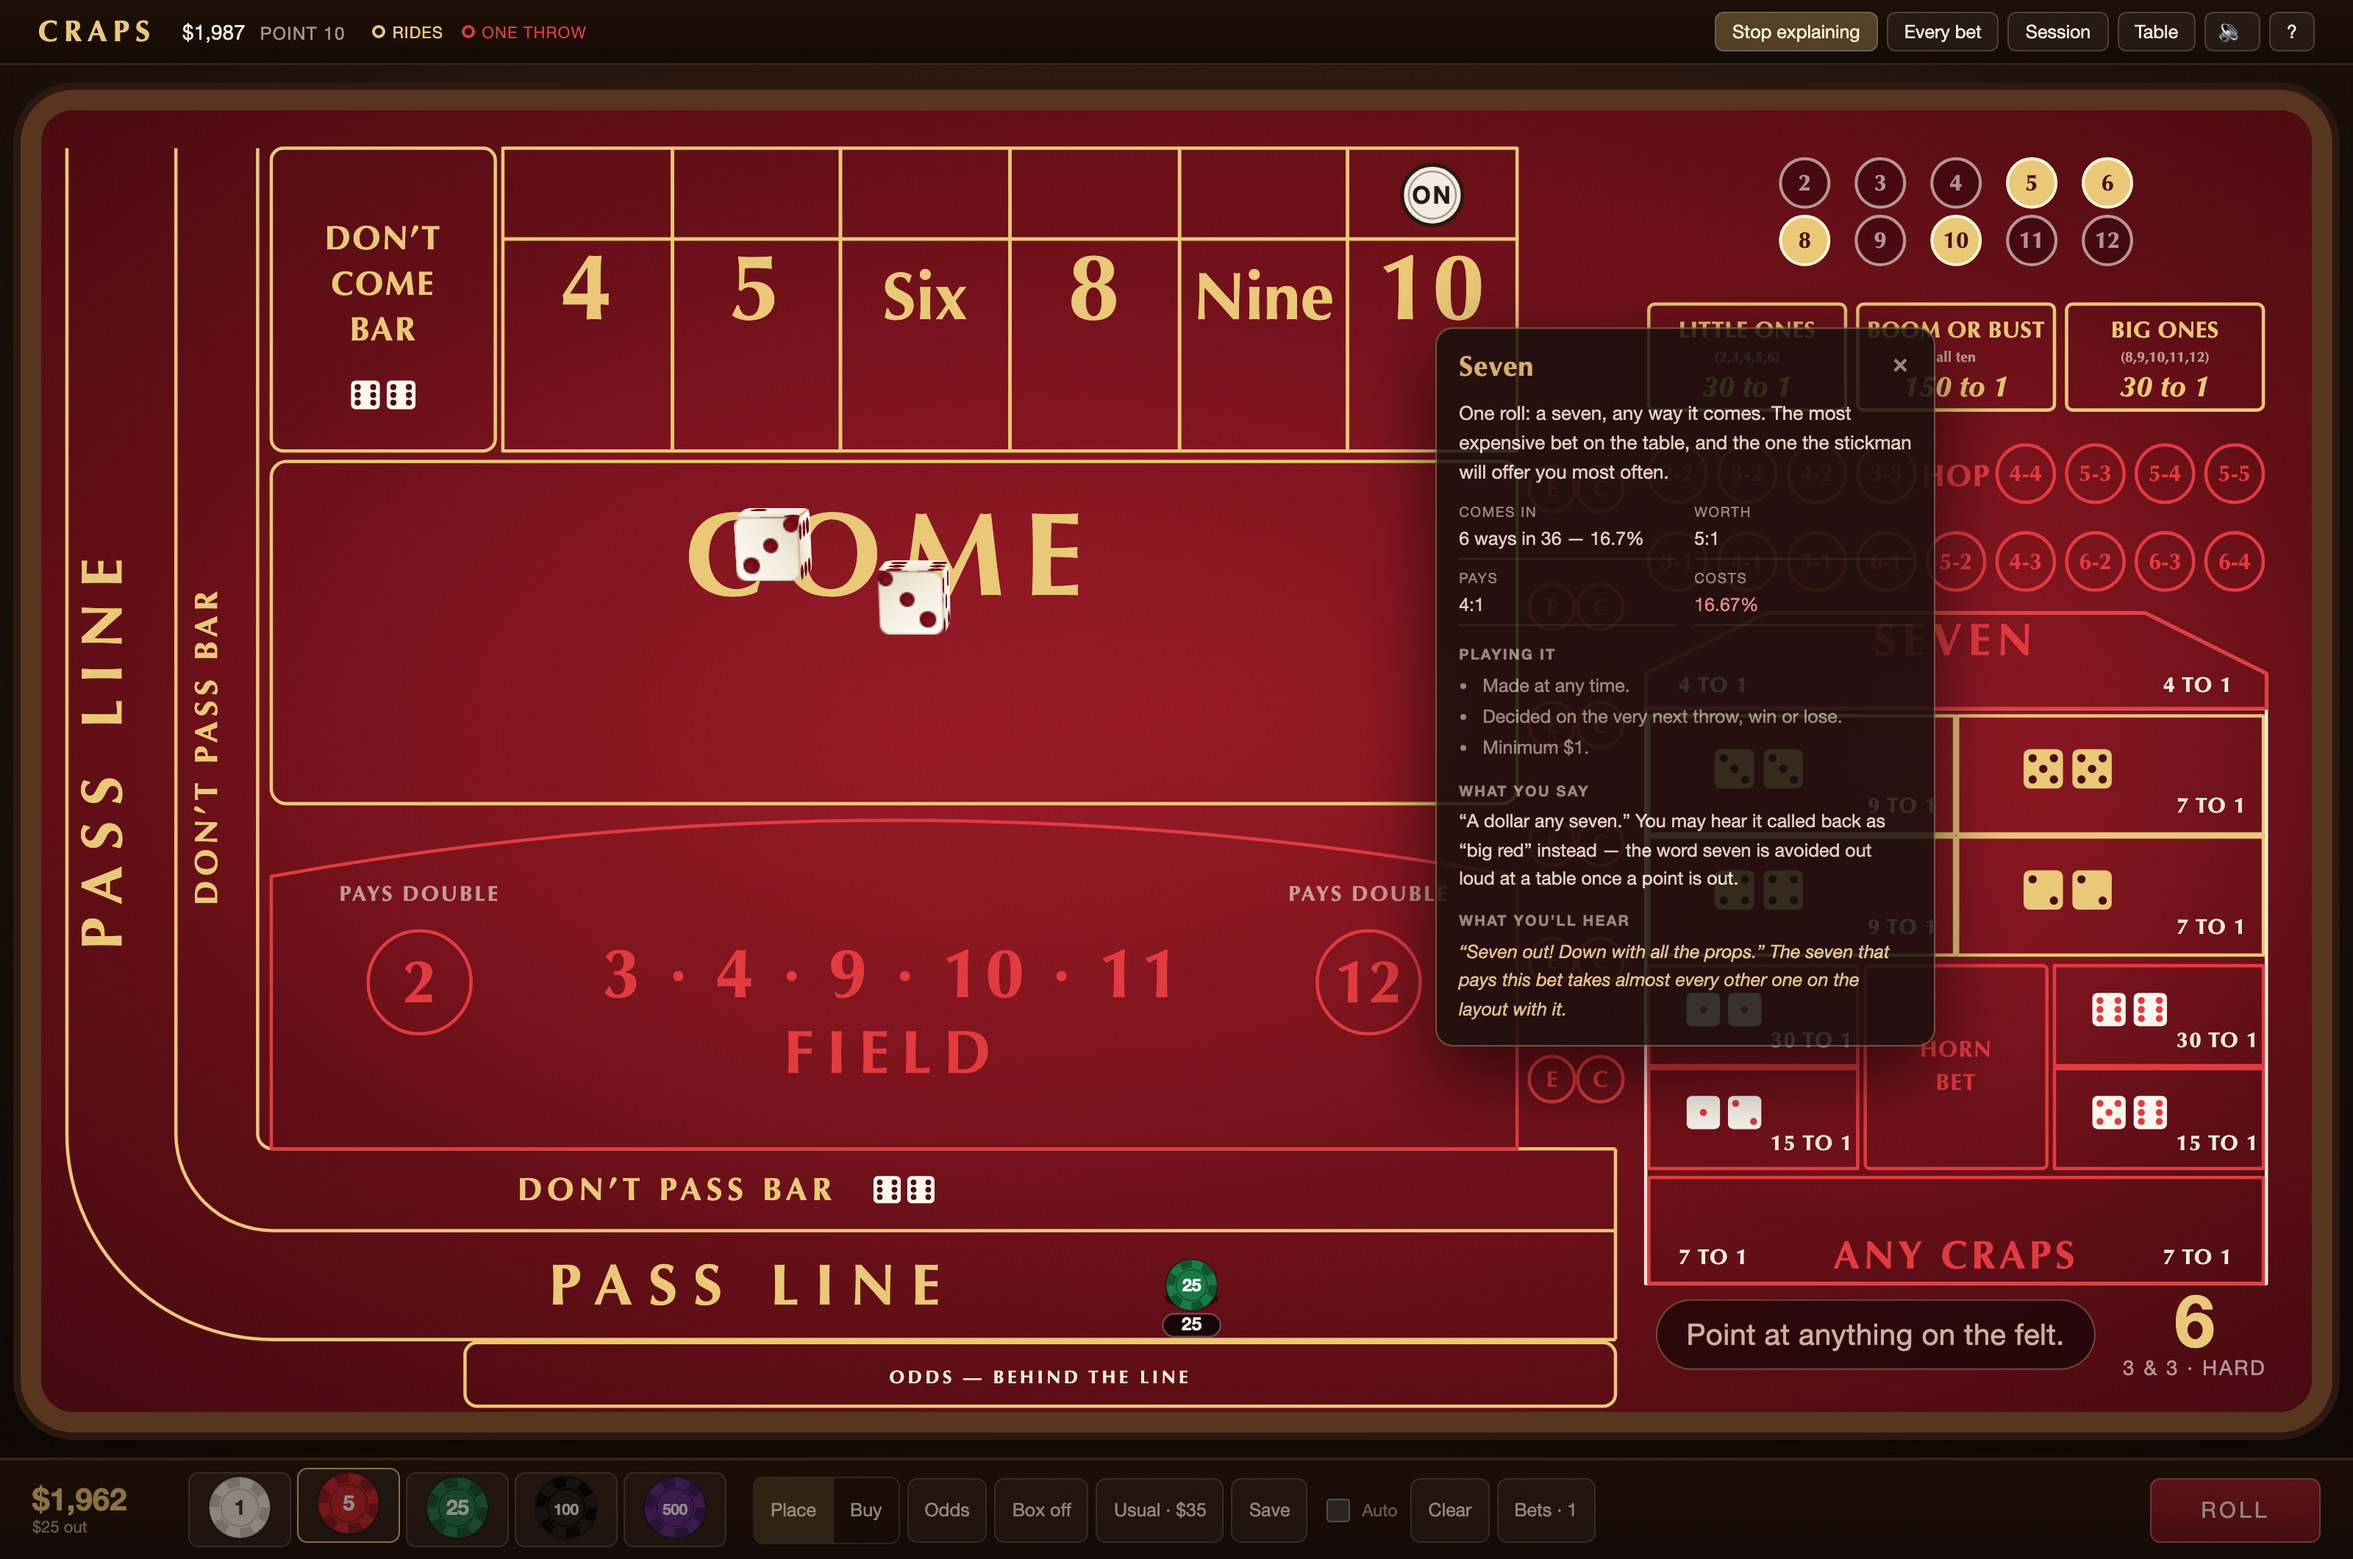
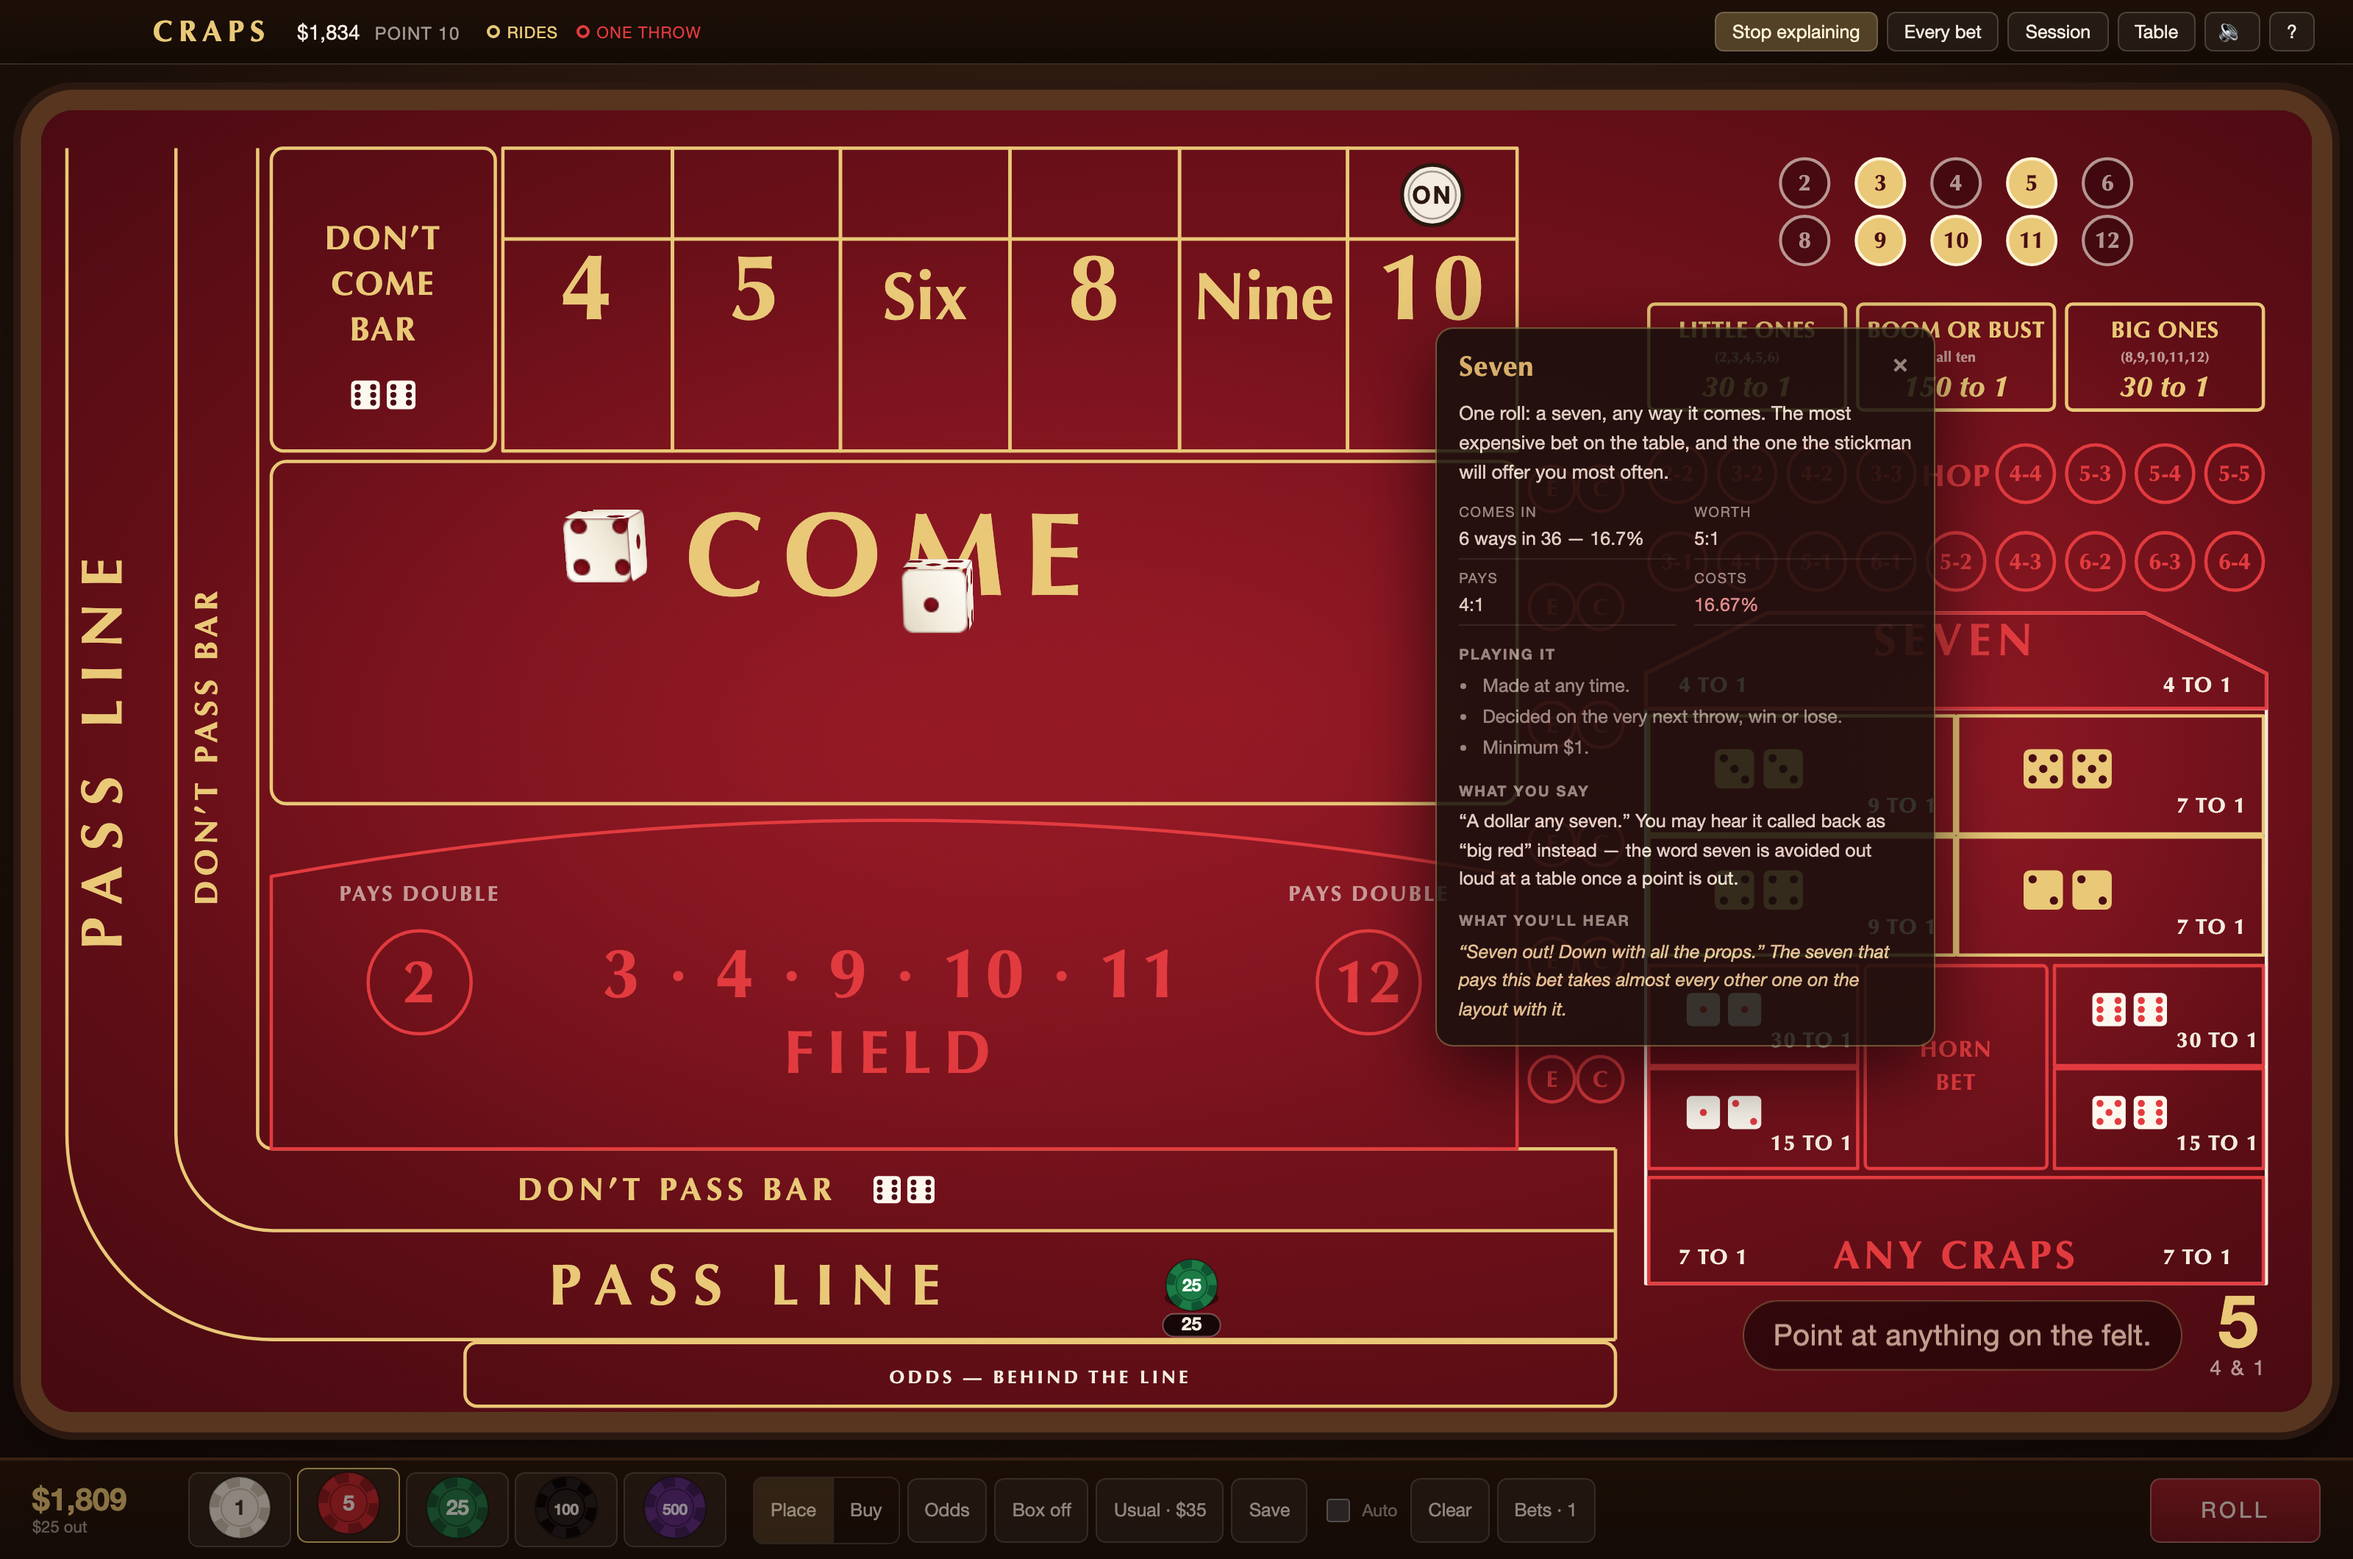
Live, and room for the chip that only exists in production
The portal injects its Exit chip at a fixed top-left over whatever is there,
and on this header that was the title - which is invisible on a dev server,
because the chip is loaded by absolute path from the portal's own origin and
simply does not exist locally. The gap is reserved whether it turns up or not:
a header that only fits where the chip is missing is a header that is wrong
everywhere it matters.

The audit's report said "per bet resolved" while counting pushes, which is
"per bet made". Now it says what it does.

diff --git a/src/styles.css b/src/styles.css
@@ -57,11 +57,20 @@ body {
 
 /* ----------------------------------------------------------------- header */
 
+/*
+ * The left padding is not symmetry - it is clearance.
+ *
+ * The portal injects its Exit chip at a fixed top-left, over whatever is
+ * there, and on this header that was the title. It only exists when the game
+ * is served from lhstart, so the gap has to be reserved whether it turns up or
+ * not: a header that only fits on a dev server is a header that is wrong
+ * everywhere it matters.
+ */
 .top {
   display: flex;
   align-items: center;
   gap: 18px;
-  padding: 8px clamp(12px, 2vw, 26px);
+  padding: 8px clamp(12px, 2vw, 26px) 8px 104px;
   background: linear-gradient(#1d1008, #150b06);
   border-bottom: 1px solid rgba(244, 236, 224, 0.12);
   font-family: 'Helvetica Neue', Arial, sans-serif;
@@ -1123,14 +1132,14 @@ body {
   .doings { order: 0; width: auto; flex-wrap: nowrap; overflow-x: auto; }
   .roll { order: 0; width: auto; min-width: 92px; min-height: 44px; margin-left: auto; }
   .chips { flex: 0 0 auto; }
-  .top { padding: 4px 10px; }
+  .top { padding: 4px 10px 4px 92px; }
   .top h1 { font-size: 13px; }
 }
 
 /* A phone in portrait gives a 1.74:1 table very little to work with. The
    header gives up everything it can. */
 @media (max-width: 620px) {
-  .top { gap: 10px; padding: 6px 10px; }
+  .top { gap: 10px; padding: 6px 10px 6px 92px; }
   .top-dim { display: none; }
   .top nav button.teach { font-size: 0; }
   .top nav button.teach::after { content: 'Explain'; font-size: 11.5px; }
